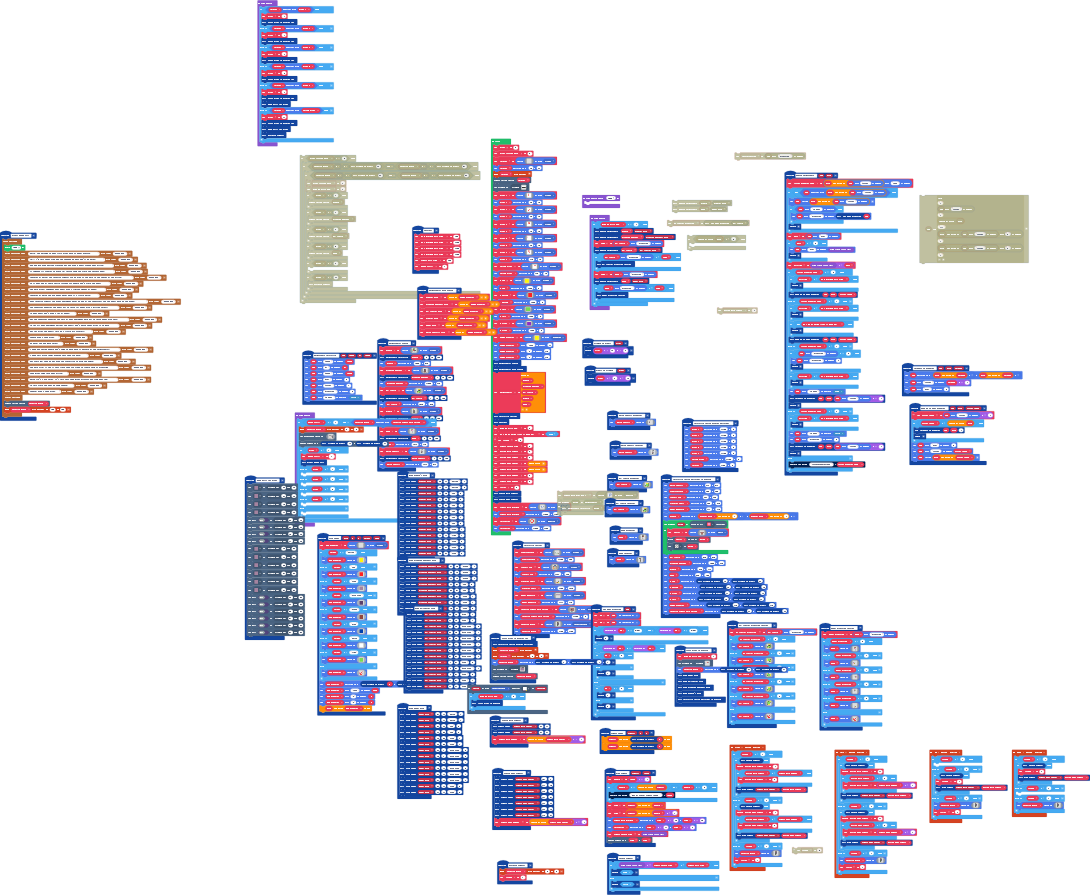
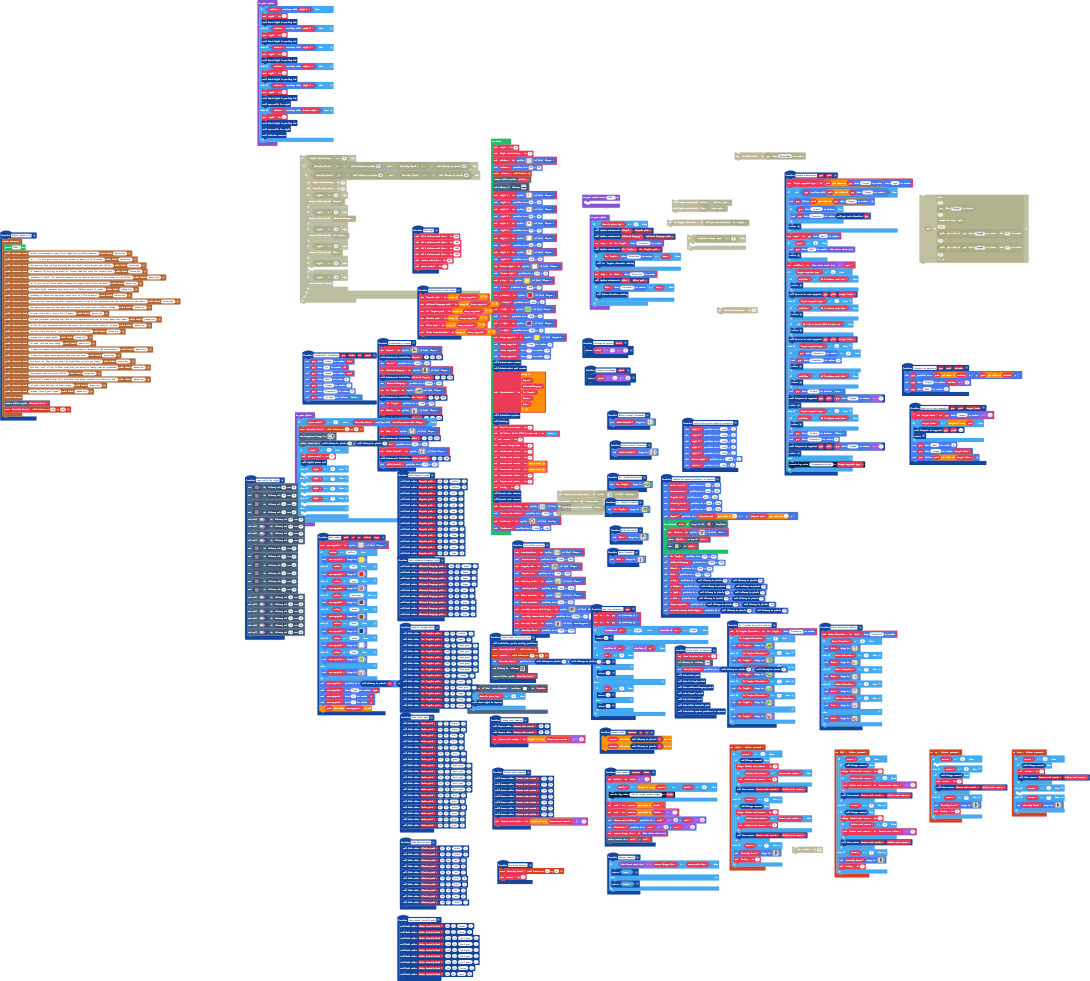
Updated paths for all animatronics based on video of Graham describing the paths

diff --git a/main.ts b/main.ts
@@ -513,6 +513,17 @@ function open_walls_for_night () {
     tiles.setWallAt(tiles.getTileLocation(42, 46), false)
     tiles.setWallAt(tiles.getTileLocation(43, 46), false)
 }
+function Make_White_Foxtails_path () {
+    Path_adder(White_Foxtails_Path, 99, 27, "brown", 1)
+    Path_adder(White_Foxtails_Path, 92, 31, "grey", 2)
+    Path_adder(White_Foxtails_Path, 139, 53, "dark grey", 0)
+    Path_adder(White_Foxtails_Path, 139, 55, "dark grey", 1)
+    Path_adder(White_Foxtails_Path, 139, 81, "dark grey", 1)
+    Path_adder(White_Foxtails_Path, 139, 87, "dark grey", 0)
+    Path_adder(White_Foxtails_Path, 123, 87, "dark grey", 1)
+    Path_adder(White_Foxtails_Path, 106, 87, "white", 3)
+    Path_adder(White_Foxtails_Path, 37, 61, "grey", 0)
+}
 function Animatronics_create () {
     Maquad = sprites.create(img`
         ............ff............
@@ -1495,14 +1506,15 @@ function Dr_Tangle_forwards () {
         `)
 }
 function Make_withered_Bongongs_path () {
-    Path_adder(Withered_Bongongs_path, 62, 34, "brown", 1)
-    Path_adder(Withered_Bongongs_path, 56, 28, "brown", 0)
-    Path_adder(Withered_Bongongs_path, 51, 28, "brown", 1)
-    Path_adder(Withered_Bongongs_path, 51, 47, "red", 0)
-    Path_adder(Withered_Bongongs_path, 46, 47, "red", 1)
-    Path_adder(Withered_Bongongs_path, 14, 47, "grey", 1)
-    Path_adder(Withered_Bongongs_path, 14, 54, "grey", 1)
-    Path_adder(Withered_Bongongs_path, 14, 57, "grey", 0)
+    Path_adder(Withered_Bongongs_path, 105, 30, "brown", 1)
+    Path_adder(Withered_Bongongs_path, 93, 23, "brown", 0)
+    Path_adder(Withered_Bongongs_path, 87, 23, "brown", 1)
+    Path_adder(Withered_Bongongs_path, 86, 23, "brown", 0)
+    Path_adder(Withered_Bongongs_path, 86, 34, "red", 0)
+    Path_adder(Withered_Bongongs_path, 69, 35, "red", 1)
+    Path_adder(Withered_Bongongs_path, 45, 35, "grey", 1)
+    Path_adder(Withered_Bongongs_path, 41, 43, "grey", 1)
+    Path_adder(Withered_Bongongs_path, 41, 44, "grey", 0)
 }
 function initialize_sprite_positions_in_daycare () {
     white_Foxtail.setPosition(975, 475)
@@ -1574,19 +1586,19 @@ function initialize_sprite_positions_in_daycare () {
     security_camera_desk_thigny.setPosition(tilemap_to_pixels(33), tilemap_to_pixels(59))
 }
 function Make_DrTangles_Path () {
-    Path_adder(Dr_Tangles_path, 28, 26, "blue", 1)
-    Path_adder(Dr_Tangles_path, 21, 28, "grey", 2)
-    Path_adder(Dr_Tangles_path, 97, 30, "dark grey", 0)
-    Path_adder(Dr_Tangles_path, 86, 30, "dark grey", 1)
-    Path_adder(Dr_Tangles_path, 81, 30, "dark grey", 0)
-    Path_adder(Dr_Tangles_path, 81, 39, "dark grey", 1)
-    Path_adder(Dr_Tangles_path, 81, 43, "dark grey", 0)
-    Path_adder(Dr_Tangles_path, 87, 43, "dark grey", 3)
-    Path_adder(Dr_Tangles_path, 2, 41, "grey", 0)
-    Path_adder(Dr_Tangles_path, 3, 43, "dark grey", 1)
-    Path_adder(Dr_Tangles_path, 3, 47, "grey", 0)
-    Path_adder(Dr_Tangles_path, 12, 47, "grey", 1)
-    Path_adder(Dr_Tangles_path, 12, 57, "grey", 0)
+    Path_adder(Dr_Tangles_path, 59, 23, "yellow", 1)
+    Path_adder(Dr_Tangles_path, 56, 23, "grey", 2)
+    Path_adder(Dr_Tangles_path, 147, 34, "dark grey", 0)
+    Path_adder(Dr_Tangles_path, 138, 34, "dark grey", 1)
+    Path_adder(Dr_Tangles_path, 131, 34, "dark grey", 0)
+    Path_adder(Dr_Tangles_path, 131, 41, "dark grey", 1)
+    Path_adder(Dr_Tangles_path, 131, 47, "dark grey", 0)
+    Path_adder(Dr_Tangles_path, 137, 47, "orange", 3)
+    Path_adder(Dr_Tangles_path, 36, 29, "grey", 0)
+    Path_adder(Dr_Tangles_path, 38, 30, "dark grey", 1)
+    Path_adder(Dr_Tangles_path, 37, 35, "grey", 0)
+    Path_adder(Dr_Tangles_path, 41, 35, "grey", 1)
+    Path_adder(Dr_Tangles_path, 41, 44, "grey", 0)
 }
 controller.right.onEvent(ControllerButtonEvent.Pressed, function () {
     if (screen2 == 2) {
@@ -1786,23 +1798,29 @@ function start_night_in_daycare () {
     Make_DrTangles_Path()
     Make_withered_Bongongs_path()
     make_Maquads_path()
+    Make_Klevins_path()
+    Make_White_Foxtails_path()
     initialize_sprite_positions_in_daycare()
 }
 function Make_kokos_path () {
-    Path_adder(Kokos_path, 42, 12, "white", 1)
-    Path_adder(Kokos_path, 45, 21, "white", 1)
-    Path_adder(Kokos_path, 45, 39, "red", 0)
-    Path_adder(Kokos_path, 53, 46, "red", 0)
-    Path_adder(Kokos_path, 56, 46, "grey", 1)
-    Path_adder(Kokos_path, 68, 46, "grey", 2)
-    Path_adder(Kokos_path, 89, 2, "dark grey", 0)
-    Path_adder(Kokos_path, 94, 2, "dark grey", 0)
-    Path_adder(Kokos_path, 94, 13, "dark grey", 1)
-    Path_adder(Kokos_path, 94, 21, "dark grey", 0)
-    Path_adder(Kokos_path, 85, 21, "dark grey", 1)
-    Path_adder(Kokos_path, 62, 21, "dark grey", 3)
-    Path_adder(Kokos_path, 49, 72, "grey", 0)
-    Path_adder(Kokos_path, 32, 72, "grey", 0)
+    Path_adder(Kokos_path, 72, 2, "white", 1)
+    Path_adder(Kokos_path, 80, 16, "white", 1)
+    Path_adder(Kokos_path, 80, 34, "red", 0)
+    Path_adder(Kokos_path, 93, 34, "red", 0)
+    Path_adder(Kokos_path, 93, 42, "red", 0)
+    Path_adder(Kokos_path, 108, 42, "grey", 1)
+    Path_adder(Kokos_path, 117, 42, "grey", 2)
+    Path_adder(Kokos_path, 142, 2, "dark grey", 0)
+    Path_adder(Kokos_path, 147, 2, "dark grey", 0)
+    Path_adder(Kokos_path, 147, 8, "dark grey", 1)
+    Path_adder(Kokos_path, 147, 20, "dark grey", 0)
+    Path_adder(Kokos_path, 133, 20, "dark grey", 1)
+    Path_adder(Kokos_path, 116, 20, "pink", 3)
+    Path_adder(Kokos_path, 70, 72, "grey", 0)
+    Path_adder(Kokos_path, 85, 72, "white", 1)
+    Path_adder(Kokos_path, 70, 72, "grey", 0)
+    Path_adder(Kokos_path, 67, 69, "grey", 0)
+    Path_adder(Kokos_path, 50, 69, "grey", 0)
 }
 controller.down.onEvent(ControllerButtonEvent.Pressed, function () {
     if (screen2 == 2) {
@@ -1983,6 +2001,18 @@ function Start_Night_in_parking_lot () {
     Security_Gaurd.setPosition(tilemap_to_pixels(9), tilemap_to_pixels(7))
     tiles.setCurrentTilemap(tilemap`level12`)
     scene.cameraFollowSprite(Security_Gaurd)
+}
+function Make_Klevins_path () {
+    Path_adder(Klevins_path, 82, 3, "white", 1)
+    Path_adder(Klevins_path, 80, 18, "white", 0)
+    Path_adder(Klevins_path, 80, 34, "red", 0)
+    Path_adder(Klevins_path, 91, 34, "red", 0)
+    Path_adder(Klevins_path, 92, 54, "red", 1)
+    Path_adder(Klevins_path, 69, 56, "grey", 0)
+    Path_adder(Klevins_path, 69, 71, "grey", 1)
+    Path_adder(Klevins_path, 69, 38, "red", 1)
+    Path_adder(Klevins_path, 69, 47, "red", 0)
+    Path_adder(Klevins_path, 56, 47, "white", 1)
 }
 function Teleport_to_waypoint (guy: Sprite, path: Sprite[], toIndex: number) {
     guy.setPosition(path[toIndex].x, path[toIndex].y)
